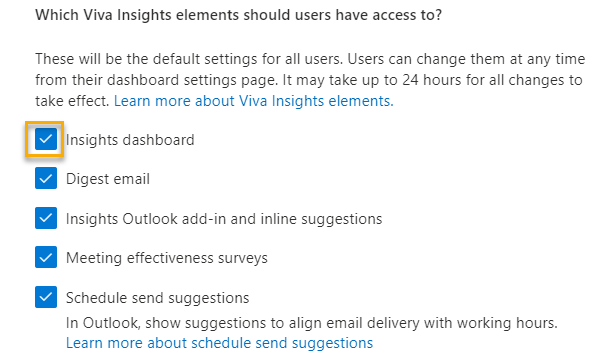
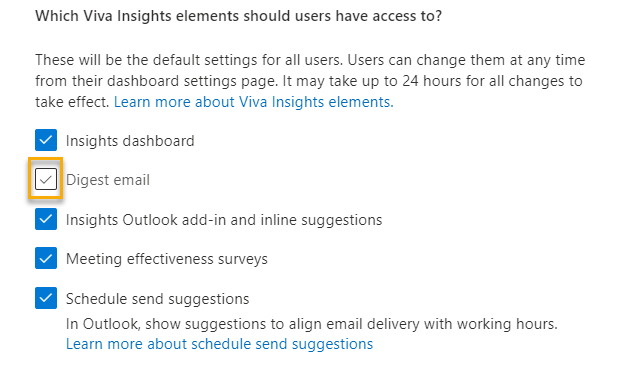
Updates to the new admin center doc continued

Changed region(s): [[0.0309, 0.337, 0.8959, 0.9805], [0.0309, 0.1226, 0.9577, 0.3064], [0.0309, 0.0306, 0.7415, 0.0613]]

diff --git a/Viva/insights/advanced/setup-maint/new-admin-center.md b/Viva/insights/advanced/setup-maint/new-admin-center.md
@@ -18,33 +18,67 @@ audience: Admin
 # Using the new admin center
 
 >[!Note]
-> This article is intended for Targeted Release customers. Some functionality is introduced gradually to organizations that have set up the targeted release options in Microsoft 365. If you're not part of the Targeted Release program, you may not yet see this feature or it may look different than what is described in this article. Features are subject to change. If you aren't in the Targeted Release program, follow our regular applicable setup directions (for example, for assigning user roles, read [Assign user roles](assign-user-roles.md)).
+> This article is intended for [Targeted Release](/microsoft-365/admin/manage/release-options-in-office-365) customers. Some functionality is introduced gradually to organizations that have set up the targeted release options in Microsoft 365. If you're not part of the Targeted Release program:
+>
+>* You might not yet see this feature or it might look different than what is described in this article. Features are subject to change. 
+> * You should follow our regular applicable setup directions (for example, for assigning user roles, read [Assign user roles](assign-user-roles.md)).
+
+With the new admin center, you as an admin can initiate setup, deployment, and manage licenses for all generally available Viva apps from a central location in the Microsoft 365 Admin Center. This article talks about how to perform tasks specific to Viva Insights. To learn more about the new experience in general, refer to [The new Microsoft Viva admin experience](/viva/new-microsoft-viva-admin-experience).
 
 ## To access Viva Insights settings
 
-On the Viva [admin page](https://admin.microsoft.com/Adminportal/Home?source=applauncher#/featureexplorer/collections/VivaExperiences), 
-select **Viva Insights**.
+Go to the Viva [admin page](https://admin.microsoft.com/Adminportal/Home?source=applauncher#/featureexplorer/collections/VivaExperiences).
 
 ## Manager, leader, and advanced insights
+
+### Assign licenses
+
+Before you can assign roles, you’ll need to assign licenses. If you don’t have licenses assigned, you’ll be directed to the **Licenses** page. You can also get to this page later by selecting the **Manage licenses** button on the Viva admin page, then selecting **Microsoft Viva**.
+
+Make sure the right individuals or groups are assigned a Viva license. Select a group or user on this page to make changes.
 
 ### Assign roles
 
 To assign Viva Insights roles in the updated admin experience:
 
+1. On the Viva admin page, select **Viva Insights**.
 1. Under **Add-on Plan**, select the role you want to assign: **Insights admin, Insights business leader, or Insights analyst**.
-![Screenshot that shows the Manager settings page.](../images/assign-admin-leader-analyst.png)
+![Screenshot that shows the Viva Insights admin page with options in the Add-on Plan section highlighted.](../images/assign-admin-leader-analyst.png)
 1. Select **Add users** or **Add groups**.
 1. Select users(s) or groups(s), then select **Add**.
-![Screenshot that shows the Manager settings page.](../images/assign-users.png)
+![Screenshot that shows the Add users option with three names.](../images/assign-users.png)
 
 ## Personal insights
 
-### Manage settings
+### Manage default settings
 
-To manage personal insights settings for your organization, select **Manage settings for Viva Insights**. Here, you can choose which default settings apply to your organization. Make changes by selecting and deselecting the check marks next to each setting. Then, select **Save**.
+To manage default personal insights settings for your organization, select **Manage settings for Viva Insights**. On the next page, you’ll see a checklist containing the following features:
 
-![Screenshot that shows the Manager settings page.](../images/personal-insights-settings.png)
+* Insights dashboard
+* Digest email
+* Insights Outlook add-in and inline suggestions
+* Meeting effectiveness surveys
+* Schedule send suggestions
+
+Using this list, choose which features are turned on by default for all users. If you want all features on by default, leave them selected. If you prefer a mixed deployment—where some features are on by default and others aren’t—deselect the ones you want to turn off.
+
+>[!Note]
+>Users can individually opt in and out of these features through their personal settings.
+
+![Screenshot that shows the personal insights default settings page. The Digest email option is in the process of being checked and is highlighted.](../images/personal-insights-settings.png)
+
+When you’re done making changes, select **Save**.
 
 ### Manage Teams app settings
 
 To manage settings for the Viva Insights app in Teams, select **Manage availability in Teams admin center**. This option takes you to the Teams admin center, where you can make changes to the app's settings. To read more about installing the Viva Insights app, refer to [Admin tasks for Viva Insights](/viva/insights/personal/teams/viva-teams-app-admin-tasks#install-the-app).
+
+### Manage the Briefing email
+
+Use the Viva admin page to change your organization’s default Briefing email settings. Select **Manage briefing email in Viva** near the top of the page.
+
+![Screenshot that shows the Viva admin page with the Manage briefing email in Viva link highlighted.](../images/select-manage-briefing.png)
+
+This option opens a pane on the right side of your screen. If you want everyone in your organization to get the email by default, select the checkbox. If you don’t, deselect the checkbox. Individuals can opt in or out of Briefing emails in their personal settings.
+
+![Screenshot that shows the Briefing email default settings pane.](../images/briefing-checkbox.png)

diff --git a/Viva/insights/personal/Setup/deployment-guide.md b/Viva/insights/personal/Setup/deployment-guide.md
@@ -103,6 +103,8 @@ In this scenario, all surfaces of Viva Insights are turned on by default for all
 
 ##### Confirm the configuration
 
+>[!Note] If you're part of the Targeted Release program, you might see a new admin experience. To learn how configure access through this new experience, refer to [Using the new admin center](../../advanced/setup-maint/new-admin-center.md#personal-insights). 
+
 **Role** - Microsoft 365 admin
 
 1. Sign in to the [Microsoft 365 admin center](https://admin.microsoft.com/Adminportal). Make sure you are using the new admin center. To do this, if the switch in the upper right of the page reads **Try the new admin center**, select it so that it reads **The new admin center**. 
